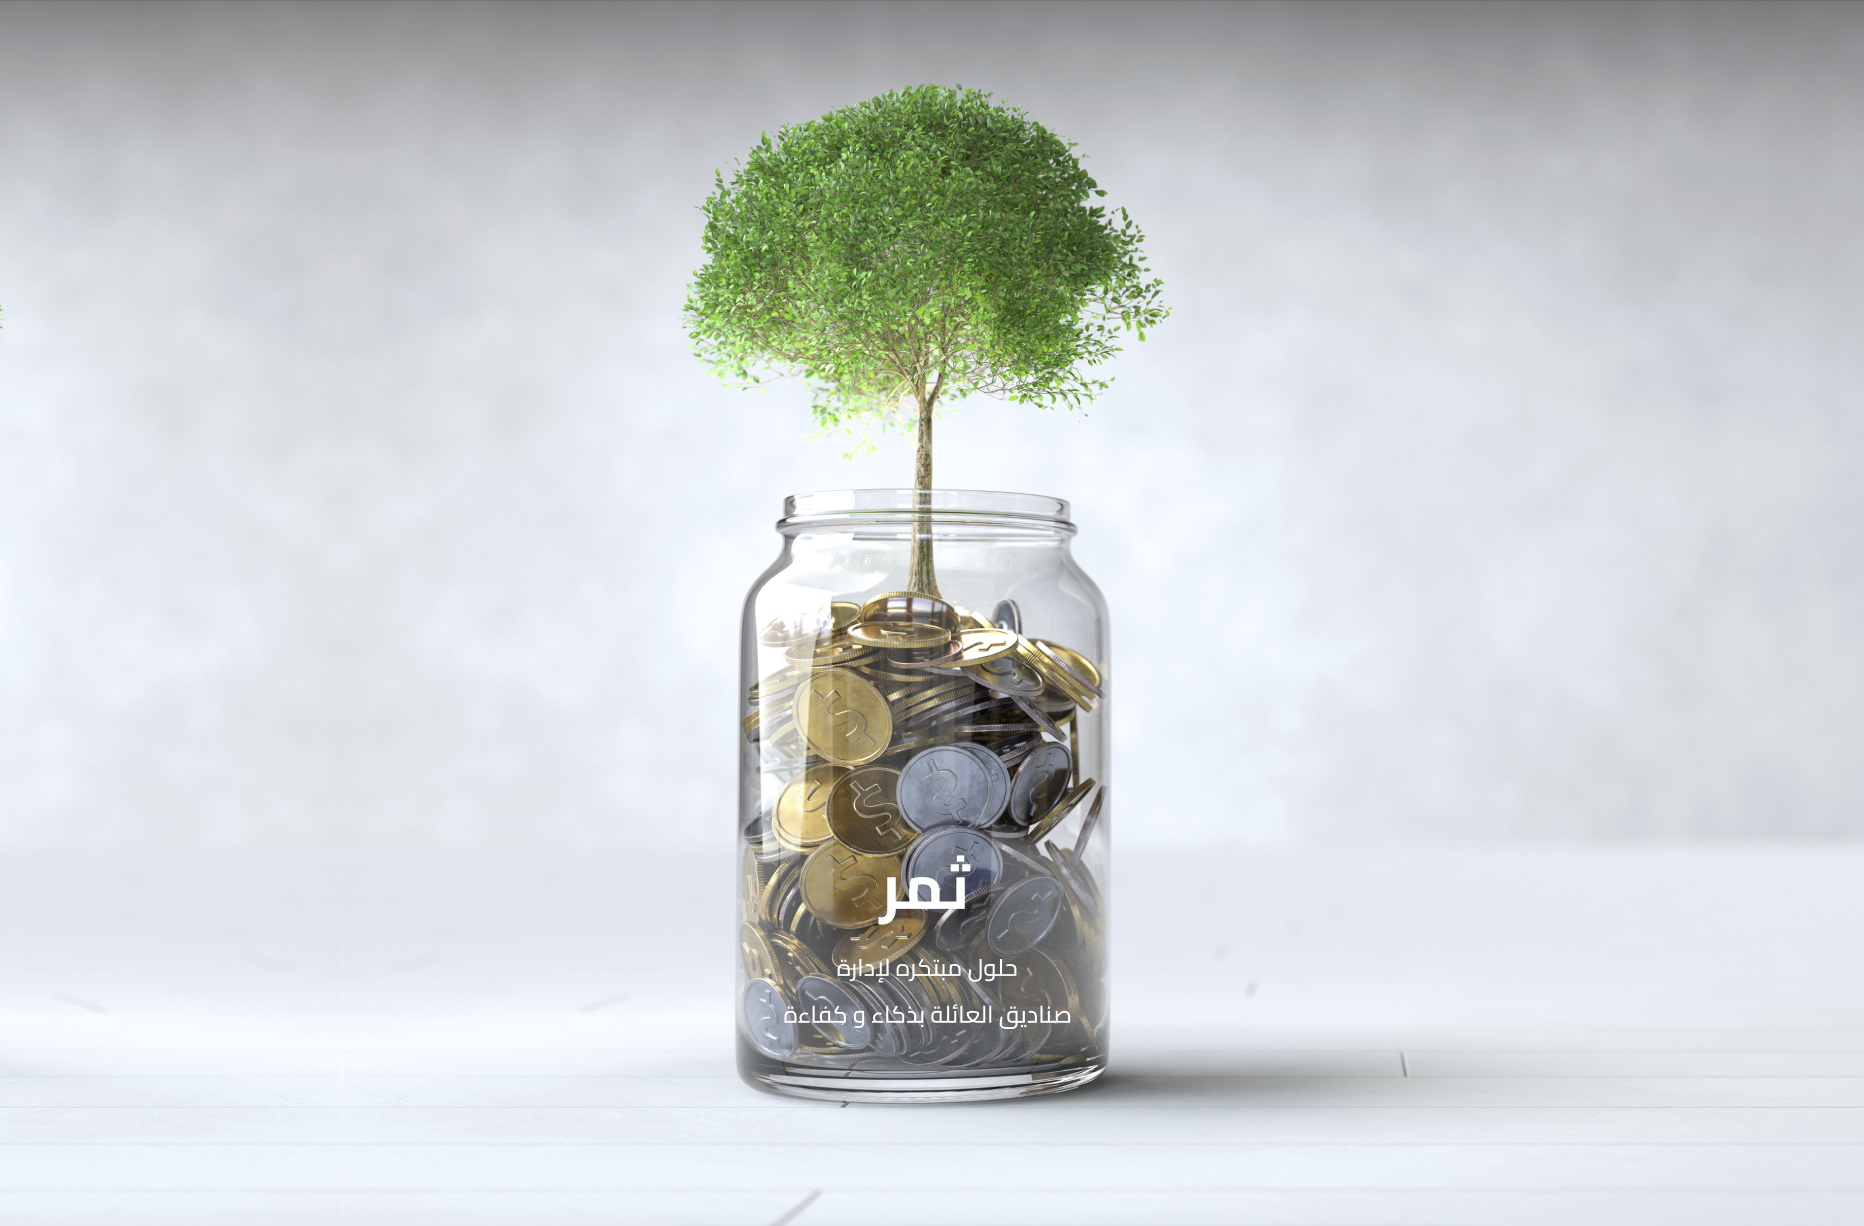
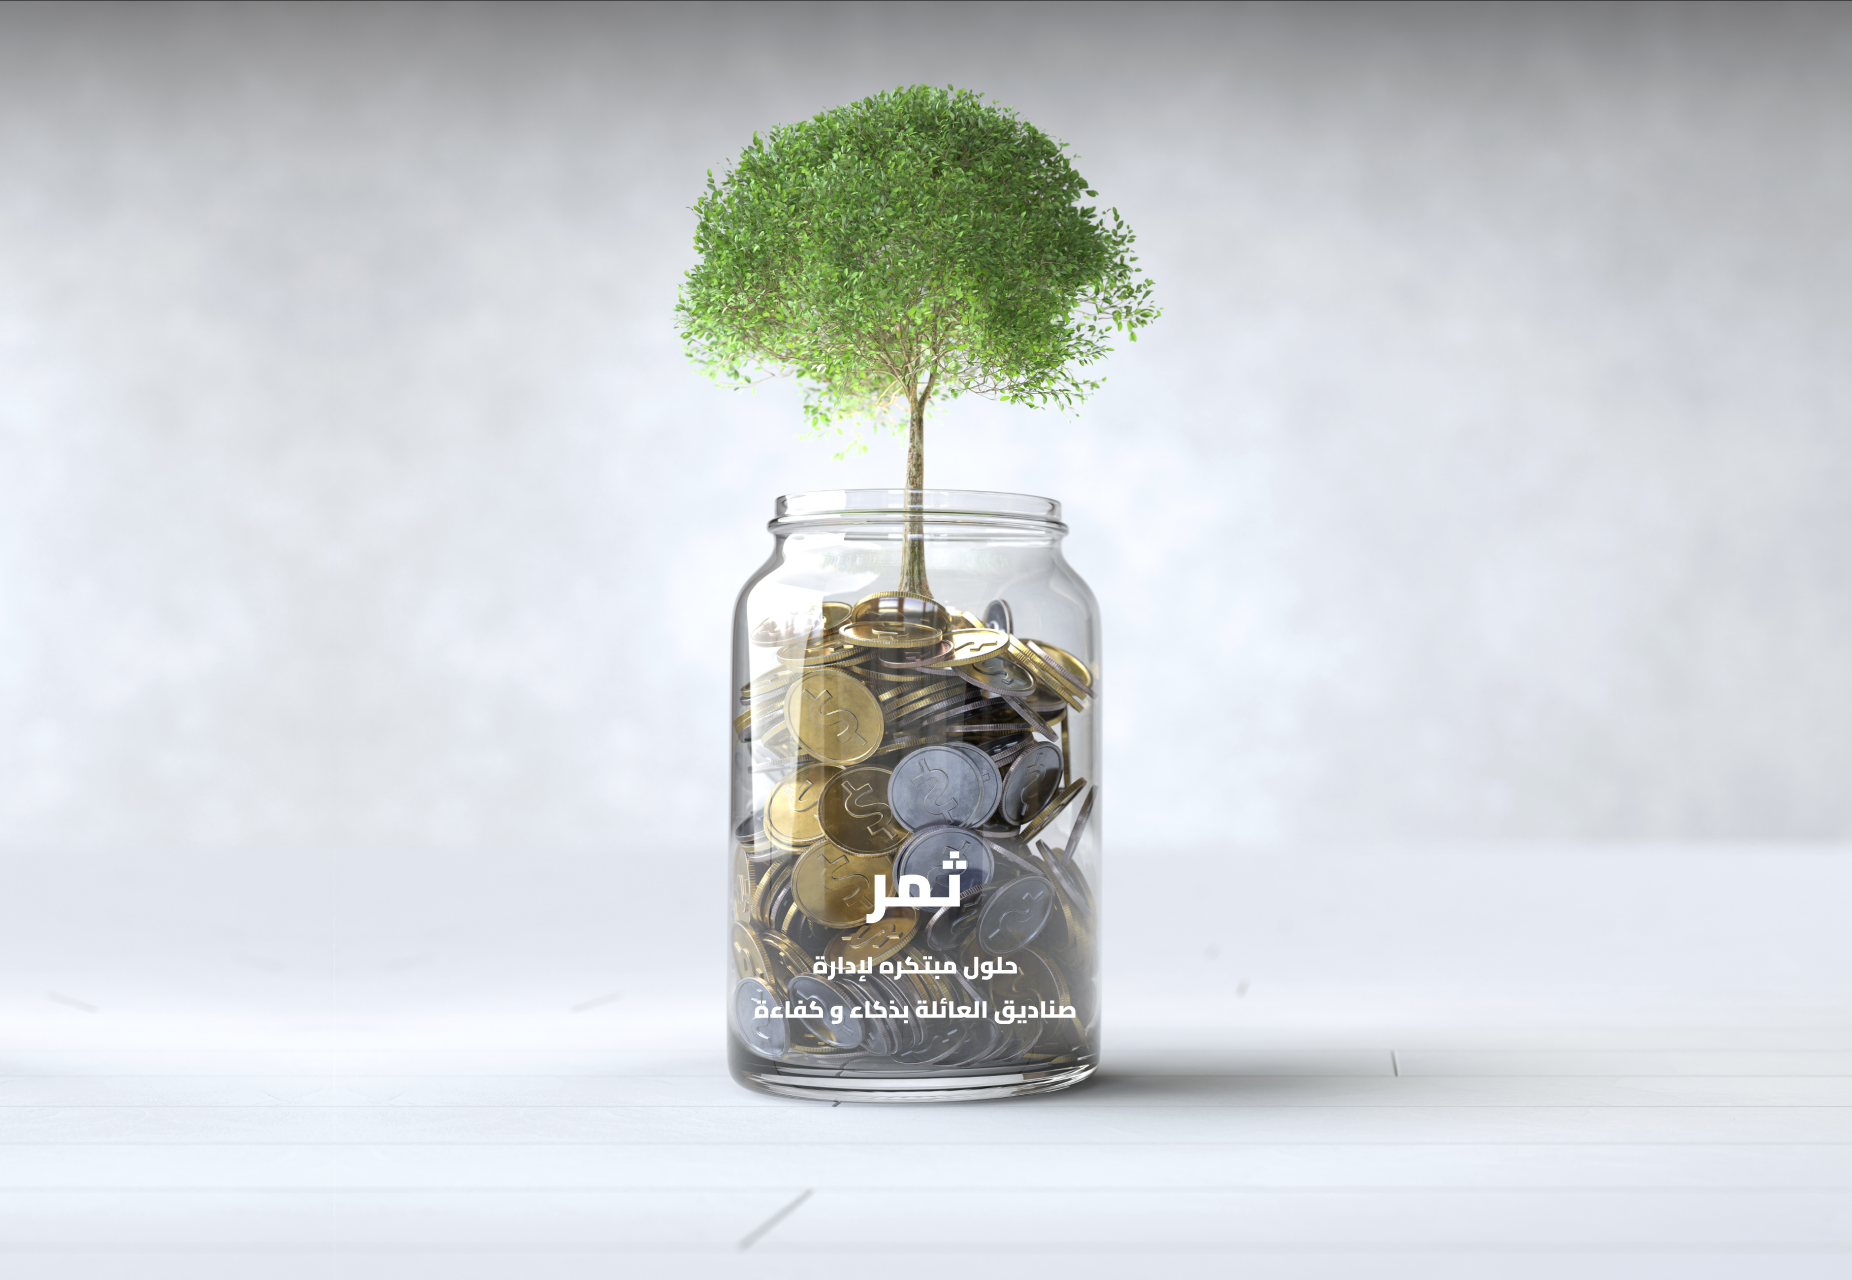
new commit

Changed region(s): [[0.3693, 0.062, 0.8002, 0.9299], [0.9541, 0.6509, 1.0, 0.6819], [0.4001, 0.9299, 0.4309, 0.9918]]

diff --git a/src/components/Header.js b/src/components/Header.js
@@ -8,30 +8,30 @@ export default function Header() {
     const { user, signOutUser } = useAuth();
 
     return (
-        <div className="absolute z-10 w-full px-10 py-0 lg:py-5">
+        <div className="absolute z-10 w-full px-2 py-0 lg:py-5 lg:px-10">
             <div className="relative flex justify-between items-center">
-                <Link to="/" className="pt-3">
+                <Link to="/" className="pt-3 w-[140px]">
                     <img src={logo} className="w-[180px]" />
                 </Link>
 
                 <div className="hidden gap-6 text-white lg:flex">
                     <NavLink to="/aboutus"
                         className={({ isActive }) =>
-                            `hover:text-customBlue hover:border-b-2 border-customBlue pb-1 ${isActive ? "text-customBlue border-b-2 border-customBlue" : ""
+                            `hover:text-customBlue font-bold hover:border-b-2 border-customBlue pb-1 ${isActive ? "text-customBlue border-b-2 border-customBlue" : ""
                             }`
                         }>
                         من نحن
                     </NavLink>
                     <NavLink to="/blog"
                         className={({ isActive }) =>
-                            `hover:text-customBlue hover:border-b-2 border-customBlue pb-1 ${isActive ? "text-customBlue border-b-2 border-customBlue" : ""
+                            `hover:text-customBlue font-bold hover:border-b-2 border-customBlue pb-1 ${isActive ? "text-customBlue border-b-2 border-customBlue" : ""
                             }`
                         }>
                         المدونة
                     </NavLink>
                     <NavLink to="/"
                         className={({ isActive }) =>
-                            `hover:text-customBlue hover:border-b-2 border-customBlue pb-1 ${isActive ? "text-customBlue border-b-2 border-customBlue" : ""
+                            `hover:text-customBlue font-bold hover:border-b-2 border-customBlue pb-1 ${isActive ? "text-customBlue border-b-2 border-customBlue" : ""
                             }`
                         }>
                         الرئيسية
@@ -40,7 +40,7 @@ export default function Header() {
 
                 {/* Burger Icon */}
                 <button
-                    className="text-2xl flex justify-center items-center px-4 py-4 text-white lg:hidden"
+                    className="text-4xl flex justify-center items-center px-4 py-4 text-white lg:hidden"
                     onClick={() => setIsMenuOpen(!isMenuOpen)}
                 >
                     {isMenuOpen ? "✕" : "☰"}
@@ -49,49 +49,51 @@ export default function Header() {
                 {/* Dropdown Menu */}
                 <div
                     className={`${isMenuOpen ? "flex" : "hidden"
-                        } absolute w-full font-bold shadow-lg flex-col p-3 text-center rounded-xl bg-[#00ceca] z-10 top-20 gap-3 lg:static lg:flex lg:flex-row lg:shadow-none lg:bg-transparent lg:w-auto lg:p-0`}
+                        } absolute w-full shadow-lg flex-col p-3 text-center rounded-xl bg-white z-10 top-20 gap-3 lg:static lg:flex lg:flex-row lg:shadow-none lg:bg-transparent lg:w-auto lg:p-0`}
                 >
                     {user ? (
                         <>
-                            <Link to="/blog" className="lg:p-2 lg:hidden">
+                            <Link to="/" className="lg:p-2 lg:hidden" onClick={() => setIsMenuOpen(!isMenuOpen)}>
                                 الرئيسية
                             </Link>
                             <hr />
-                            <Link to="/aboutus" className="lg:p-2 lg:hidden">
+                            <Link to="/aboutus" className="lg:p-2 lg:hidden" onClick={() => setIsMenuOpen(!isMenuOpen)}>
                                 من نحن
                             </Link>
                             <hr />
-                            <Link to="/blog" className="lg:p-2 lg:hidden">
+                            <Link to="/blog" className="lg:p-2 lg:hidden" onClick={() => setIsMenuOpen(!isMenuOpen)}>
                                 المدونة
                             </Link>
                             <hr />
-                            <Link to="/profile" className="lg:text-white">
+                            <Link to="/profile" className="lg:text-white" onClick={() => setIsMenuOpen(!isMenuOpen)}>
                                 حسابي
                             </Link>
                             <hr />
-                            <button onClick={signOutUser} className="lg:text-white">
+                            <button className="lg:text-white" 
+                            onClick={() => { signOutUser(); setIsMenuOpen(!isMenuOpen); }}>
                                 تسجيل خروج
                             </button>
                         </>
                     ) : (
                         <>
-                            <Link to="/blog" className="lg:p-2 lg:hidden">
+                            <Link to="/" className="lg:p-2 lg:hidden" onClick={() => setIsMenuOpen(!isMenuOpen)}>
                                 الرئيسية
                             </Link>
                             <hr />
-                            <Link to="/aboutus" className="lg:p-2 lg:hidden">
+                            <Link to="/aboutus" className="lg:p-2 lg:hidden" onClick={() => setIsMenuOpen(!isMenuOpen)}>
                                 من نحن
                             </Link>
                             <hr />
-                            <Link to="/blog" className="lg:p-2 lg:hidden">
+                            <Link to="/blog" className="lg:p-2 lg:hidden" onClick={() => setIsMenuOpen(!isMenuOpen)}>
                                 المدونة
                             </Link>
                             <hr />
-                            <Link to="/login" className="lg:text-white">
+                            <Link to="/login" className="lg:text-white" onClick={() => setIsMenuOpen(!isMenuOpen)}>
                                 تسجيل الدخول
                             </Link>
                             <hr />
-                            <Link to="/register" className="lg:text-white">
+                            <Link to="/register" className="lg:text-white" 
+                            onClick={() => { signOutUser(); setIsMenuOpen(!isMenuOpen); }}>
                                 التسجيل
                             </Link>
                         </>

diff --git a/src/components/Advantages.js b/src/components/Advantages.js
@@ -1,33 +1,29 @@
 import { FontAwesomeIcon } from '@fortawesome/react-fontawesome';
-import { faChartColumn, faUsersGear, faChartPie } from '@fortawesome/free-solid-svg-icons';
+import { faPeopleArrows, faUsersGear, faGlobe } from '@fortawesome/free-solid-svg-icons';
 
 function Advantages() {
     return (
         <div className="flex flex-wrap-reverse gap-6 justify-center mt-14">
             <div className="w-[341px] bg-white text-center p-12 shadow-md transition-shadow duration-300 ease-in-out hover:shadow-lg">
-                <FontAwesomeIcon icon={faUsersGear} size="3x" color="green" />
+                <FontAwesomeIcon icon={faUsersGear} size="3x" className='text-customBlue' />
                 <div className="pt-8">
-                    <h2 className="text-xl font-bold pb-6">إدارة المستفيدين بذكاء</h2>
                     <p className="text-lg font-medium">
-                        أضف، عدّل، واحذف بيانات المستفيدين بسهولة
+                    رفع جودة العمليات الاشرافية الخاصة بالصناديق من خلال حلول مبتكرة                     </p>
+                </div>
+            </div>
+            <div className="w-[341px] bg-white text-center p-12 shadow-md transition-shadow duration-300 ease-in-out hover:shadow-lg">
+                <FontAwesomeIcon icon={faPeopleArrows} size="3x" className='text-customBlue' />
+                <div className="pt-8">
+                    <p className="text-lg font-medium">
+                        بناء روابط تشاركية توسع من آفاق وفرص الصناديق العائلية
                     </p>
                 </div>
             </div>
             <div className="w-[341px] bg-white text-center p-12 shadow-md transition-shadow duration-300 ease-in-out hover:shadow-lg">
-                <FontAwesomeIcon icon={faChartColumn} size="3x" color="blue" />
+                <FontAwesomeIcon icon={faGlobe} size="3x" className='text-customBlue' />
                 <div className="pt-8">
-                    <h2 className="text-xl font-bold pb-6">تقارير مالية دقيقة</h2>
                     <p className="text-lg font-medium">
-                        احصل على إحصاءات شاملة عن المساهمات والمصروفات
-                    </p>
-                </div>
-            </div>
-            <div className="w-[341px] bg-white text-center p-12 shadow-md transition-shadow duration-300 ease-in-out hover:shadow-lg">
-                <FontAwesomeIcon icon={faChartPie} size="3x" color="gray" />
-                <div className="pt-8">
-                    <h2 className="text-xl font-bold pb-6">عرض بيانات الصندوق المالية</h2>
-                    <p className="text-lg font-medium">
-                        تابع الإيرادات والمصروفات بسهولة وبطريقة منظمة
+                        تقديم حلول رقمية لإدارة النشاط المالي الخاص بالصناديق
                     </p>
                 </div>
             </div>

diff --git a/src/components/Footer.js b/src/components/Footer.js
@@ -41,11 +41,15 @@ export default function Footer() {
                 </div>
 
                 {/* Additional Links Section (Optional) */}
-                <div className="mt-6 border-t border-black pt-4 text-center">
+                <div className="my-6 pt-4 text-center">
                     <p className="text-white text-sm">
                         &copy; {new Date().getFullYear()} جميع الحقوق محفوظة
                     </p>
                 </div>
+                <hr />
+                <p className='text-white text-right text-xs mt-5' style={{direction:'rtl'}}>
+                    إن شركة حلول ثمر للتصميم هي شركة ذات مسؤولية محدودة مسجلة بالمملكة العربية السعودية وتعمل وفق أنظمتها وتهدف إلى تقديم حلول رقمية في النشاطات الإدارية والمالية الخاصة بالصناديق العائلية ولا تقدم أي مشورة أو توجيه في الأمور الخاصة بالصناديق. كما أن البنية النهائية لخدمات المنصة والتطبيق ليست بالضرورة ستكون متوفرة بالنموذج الاولي الذي نعمل على بنائه.
+                </p>
             </div>
         </footer>
     );

diff --git a/src/components/Landing.js b/src/components/Landing.js
@@ -6,7 +6,7 @@ export default function Landing() {
     return (
         <div className="bg-cover bg-center bg-small_landing h-screen flex items-end justify-center lg:bg-landing lg:items-center lg:justify-end lg:bg-left lg:py-[243px]">
             <div className="hidden lg:flex items-center justify-center text-white text-center mb-[57px] flex-col gap-8 lg:items-end lg:mb-0 lg:pr-[120px] lg:text-right lg:text-black">
-                <p className="lg:block lg:text-customBlue lg:text-7xl lg:font-bold">ثمر</p>
+                <p className="lg:block lg:text-customBlue lg:text-7xl lg:font-extrabold">ثمر</p>
                 <div className='lg:text-xl'>
                     <p>حلول مبتكره لإدارة</p>
                     <p>صناديق العائلة بذكاء و كفاءة</p>

diff --git a/src/components/context/AuthContext.js b/src/components/context/AuthContext.js
@@ -66,6 +66,7 @@ export const AuthProvider = ({ children }) => {
             await signOut(auth);
             setUser(null);
             toast.success("تم تسجيل الخروج بنجاح!");
+            navigate("/");
         } catch (error) {
             toast.error("حدث خطأ أثناء تسجيل الخروج.");
         }

diff --git a/public/index.html b/public/index.html
@@ -31,7 +31,7 @@
     <link rel="preconnect" href="https://fonts.googleapis.com">
     <link rel="preconnect" href="https://fonts.gstatic.com" crossorigin>
     <link href="https://fonts.googleapis.com/css2?family=Cairo:wght@200..1000&display=swap" rel="stylesheet">
-    <title>THMR</title>
+    <title>ثمر</title>
 </head>
 
 <body>

diff --git a/src/App.js b/src/App.js
@@ -1,11 +1,13 @@
 import './App.css';
 import Router from './Router';
+import { ToastContainer } from 'react-toastify';
 
 
 function App() {
   return (
     <div className="App">
       <Router />
+      <ToastContainer rtl />
     </div>
   );
 }
